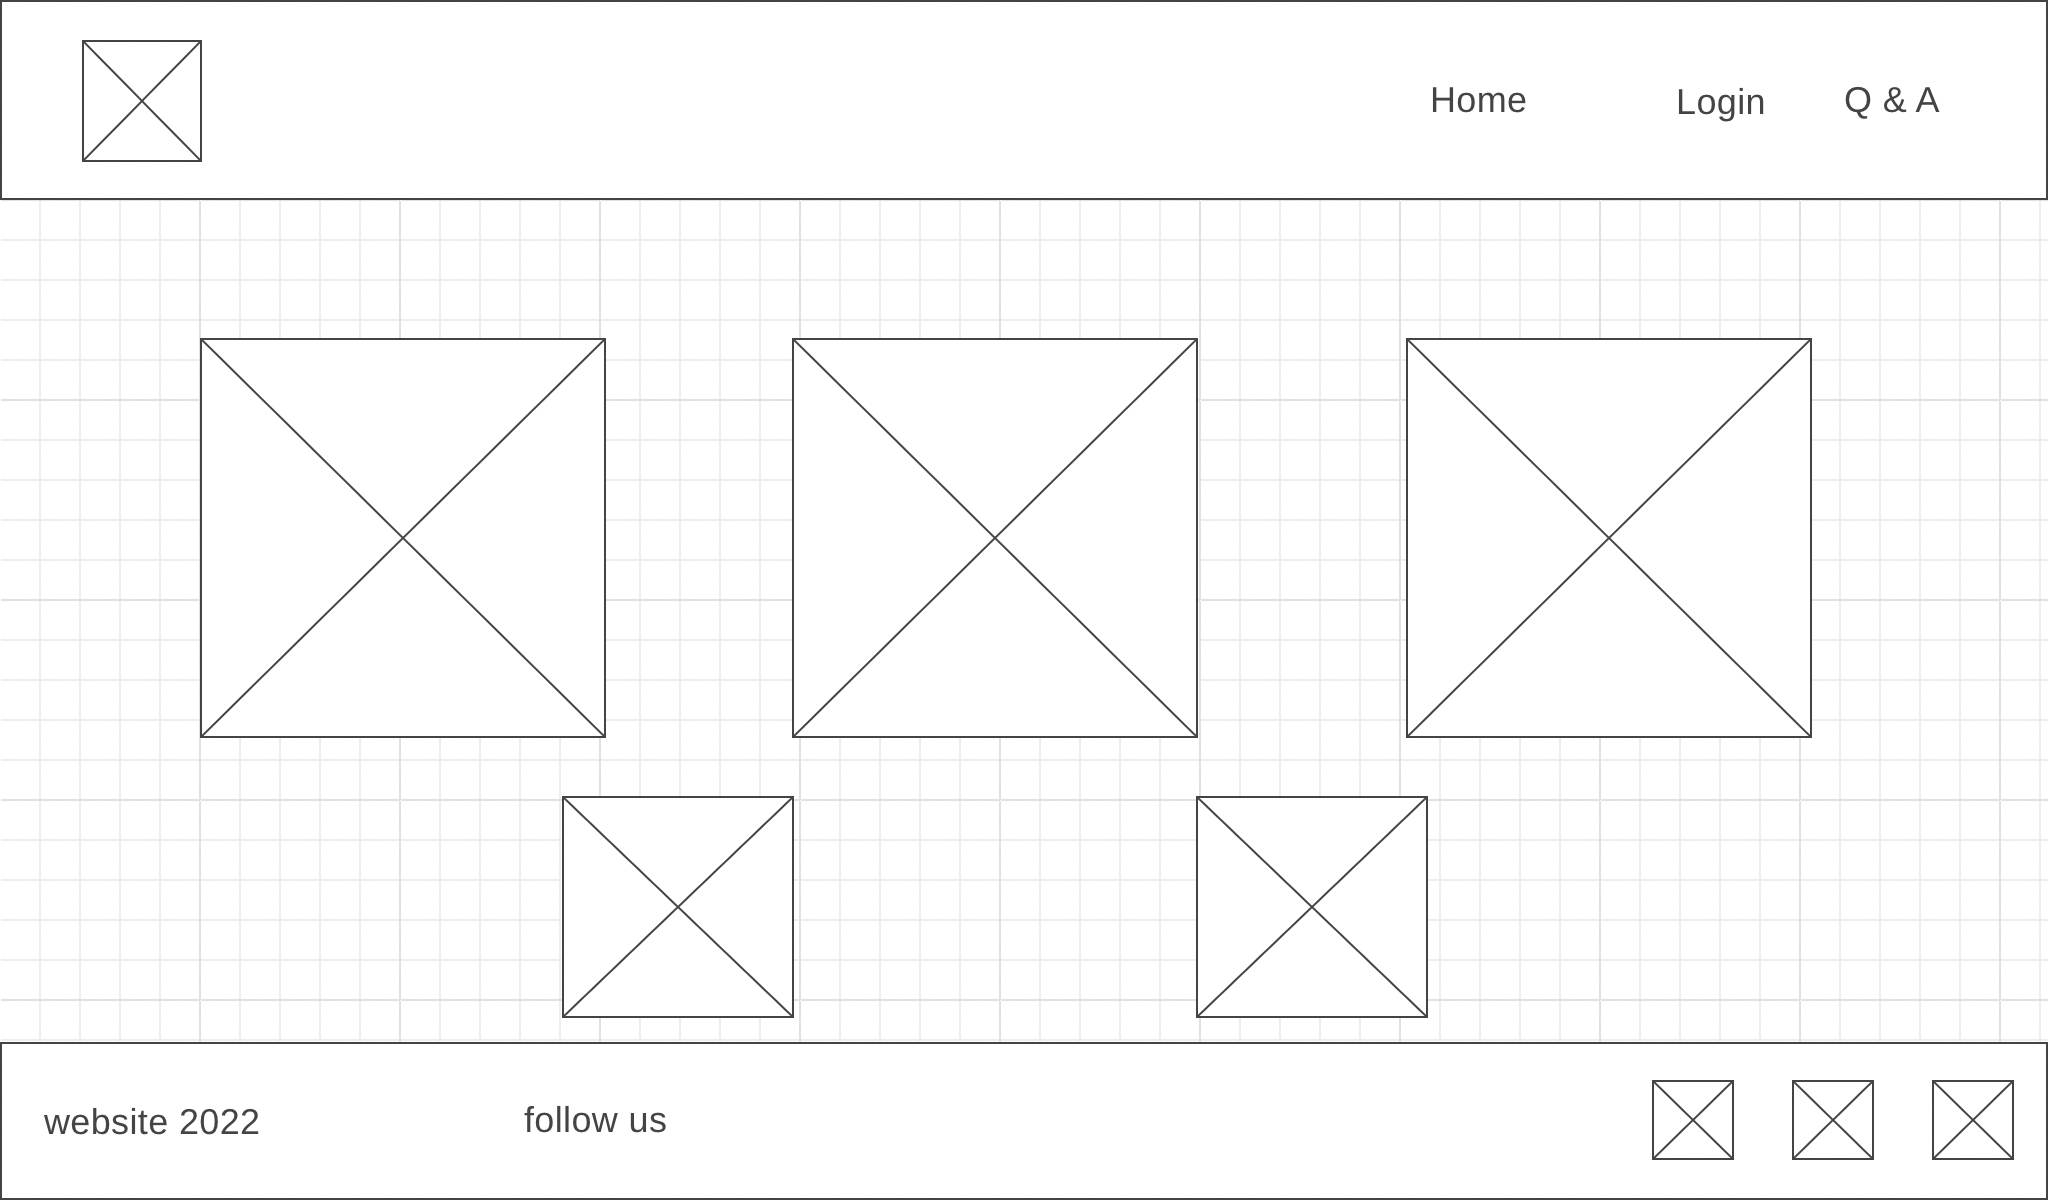
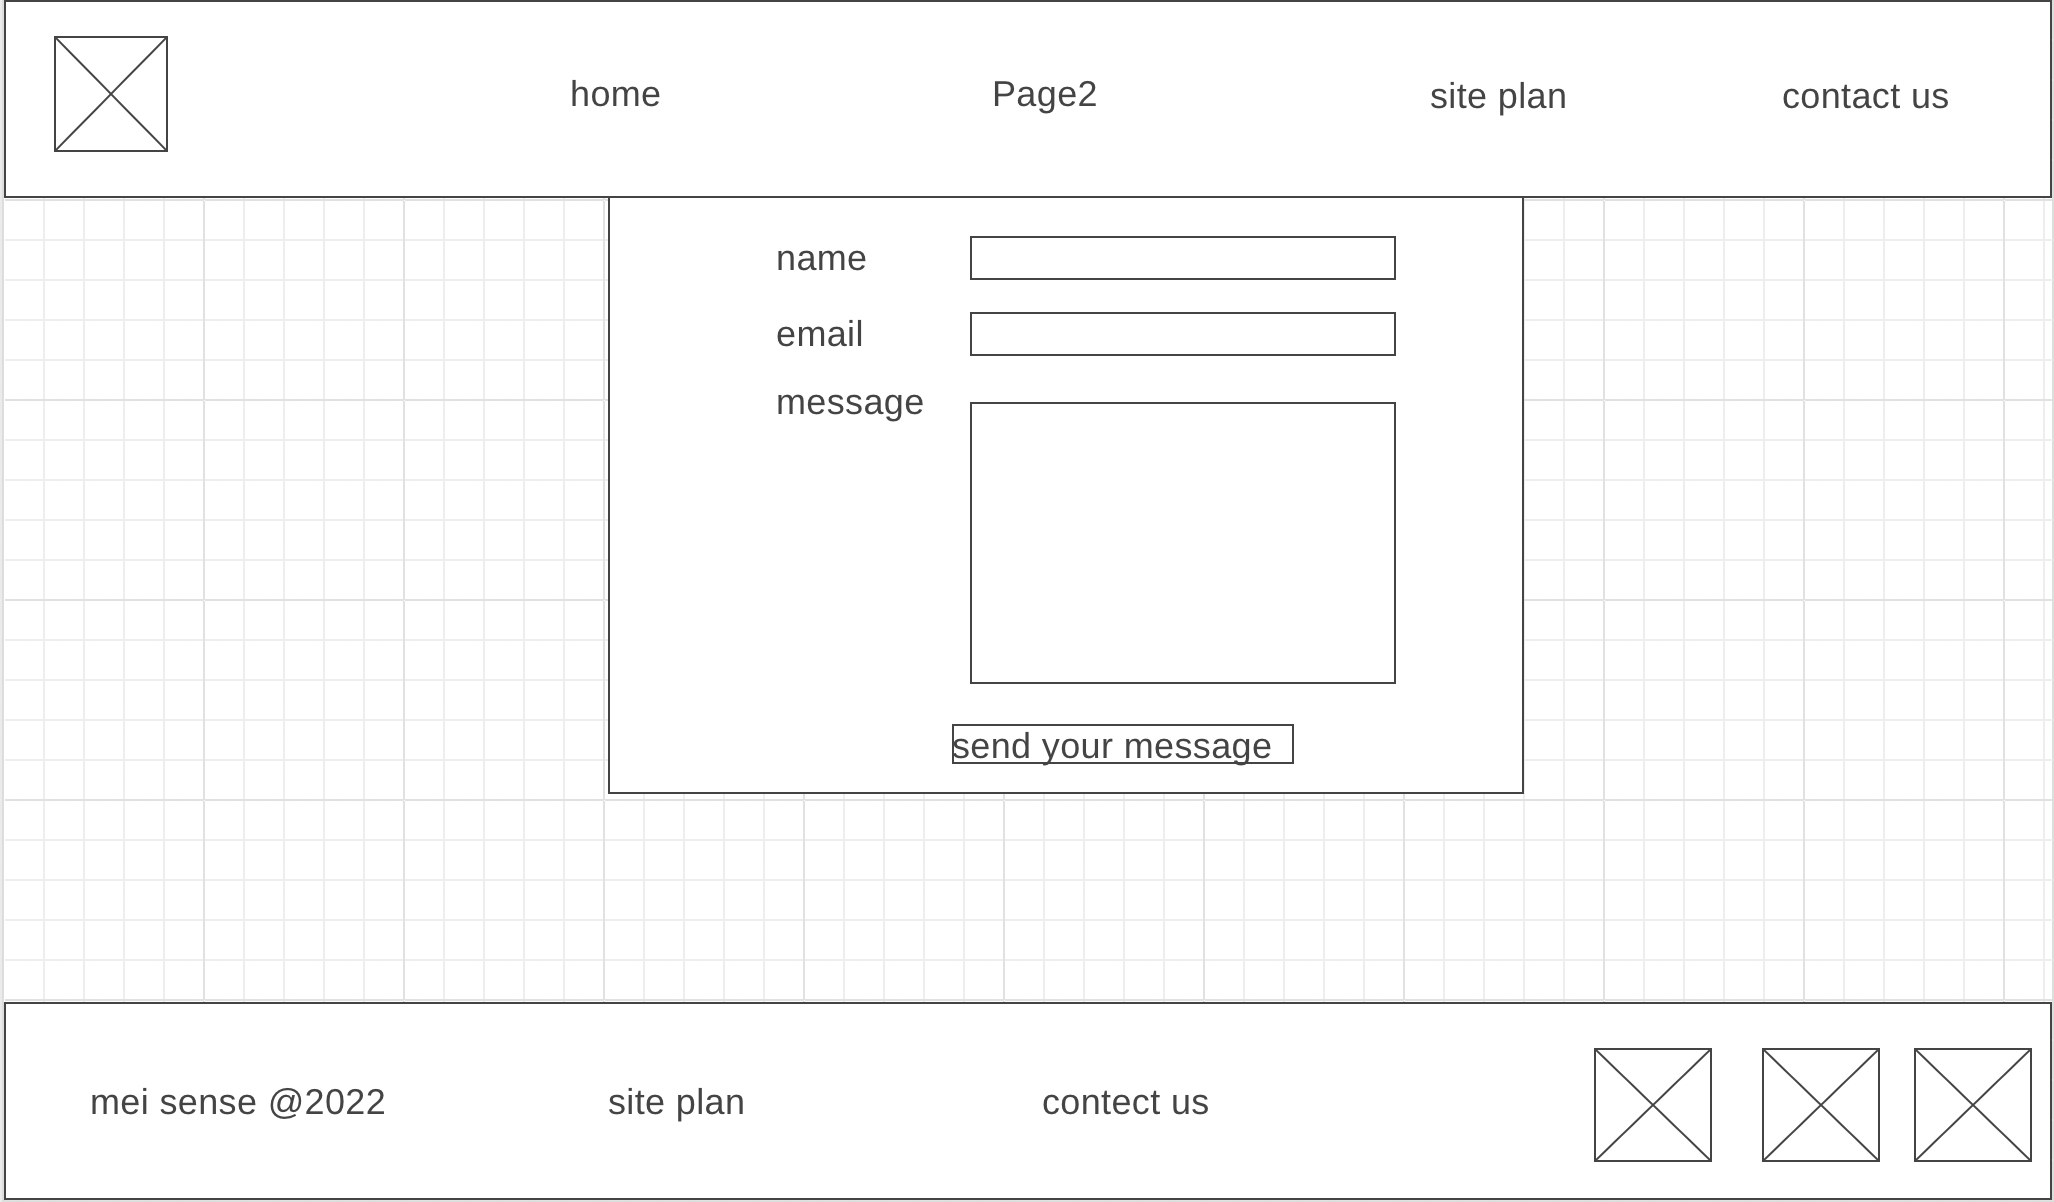
new

diff --git a/site_plan/contactus.html b/site_plan/contactus.html
@@ -1,0 +1,73 @@
+<!DOCTYPE html>
+<html lang="en">
+<head>
+    <meta charset="UTF-8">
+    <meta http-equiv="X-UA-Compatible" content="IE=edge">
+    <meta name="viewport" content="width=device-width, initial-scale=1.0">
+    <title>Personal site plan</title>
+    <link rel="stylesheet" href="styles/styles.css">
+
+</head>
+<body>
+    <div id="content">
+    <header>
+        <a id="logo_link" href="index.html" target="_blank">
+            <img class="logo" src="image/store_logo.jpg" alt="personal site Logo">
+        </a>
+        <nav>
+            <a href="index.html" target="_blank">Home</a>
+            <a href="page2.html" target="_blank">Page 2</a>
+            <a href="site-plan.html" target="_blank">Site Plan</a>
+            <a href="contactus.html" target="_blank">Contact Us</a>
+        </nav>
+    </header>
+    <form action="/my-handling-form-page" method="post">
+        <ul>
+          <li>
+            <label for="name">Name:</label>
+            <input type="text" id="name" name="user_name" />
+          </li>
+          <li>
+            <label for="mail">E-mail:</label>
+            <input type="email" id="mail" name="user_email" />
+          </li>
+          <li>
+            <label for="msg">Message:</label>
+            <textarea id="msg" name="user_message"></textarea>
+          </li>
+          <li class="button">
+            <button type="submit">Send your message</button>
+          </li>
+        </ul>
+
+      </form>
+      <div id="feedback"></div>
+      <script>
+        const feedbackElement = document.getElementById('feedback');
+        const formElement = document.forms[0];
+        formElement.addEventListener('submit', function(e) {
+            e.preventDefault();
+            feedbackElement.innerHTML = 'Hello '+ formElement.user_name.value +'! Thank you for your message. We will get back with you as soon as possible!';
+            feedbackElement.style.display = "block";
+            document.body.classList.toggle('moveDown');
+        });
+    </script>
+
+<footer>
+    <p>Mei Sense &copy; 2022 - Giselle Wang </p>
+        <p><a href="site_plan.html" target="_blank">Site Plan</a></p>
+        <p><a href="contactus.html">Contact Us</a></p>
+        <div class="social">
+            <a href="https://facebook.com" target="_blank">
+                <img src="image/facebook.png" alt="fb icon">
+            </a>
+            <a href="https://twitter.com" target="_blank">
+                <img src="image/twitter.png" alt="twitter icon">
+            </a>
+            <a href="https://instagram.com" target="_blank">
+                <img src="image/instagram.png" alt="instagram icon">
+            </a>
+
+</footer>
+</body>
+</html>

diff --git a/site_plan/styles/styles.css b/site_plan/styles/styles.css
@@ -1,0 +1,156 @@
+body {
+    background-color: rgb(255, 222, 222);
+    margin: 0
+}
+#content {
+    max-width: 1600px;
+    margin: 0 auto;
+}
+header {
+    background-color:rgb(255, 187, 179);
+    display: grid;
+    grid-template-columns: 150px auto;
+}
+nav {
+    display: flex;
+    justify-content: space-around;
+}
+.logo {
+    width: 90px;
+    margin: auto;
+}
+#logo_link {
+    padding-top: 5px;
+    justify-self: center;
+    align-self: center;
+}
+.logo-title {
+    margin-top: 10px;
+}
+nav a {
+    text-align: center;
+    color:rgb(255, 49, 49);
+    text-decoration: none;
+    padding: 35px;
+} 
+
+/*Home*/
+.img-1 {
+    width: 150px;
+    margin: 50px;
+}
+
+.img-2 {
+    width: 150px;
+    margin: 50px;
+}
+.img-3 {
+    width: 150px;
+    margin: 50px;
+}
+.img-4 {
+    width: 150px;
+    margin: 50px;
+}
+
+/*Page 2*/
+.img-5 {
+    width: 150px;
+    margin: 50px;
+}
+.img-6 {
+    width: 150px;
+    margin: 50px;
+}
+
+/*contact us*/
+form {
+    margin: 0 auto;
+    width: 400px;
+    padding: 1em;
+    border: 1px solid #ccc;
+    border-radius: 1em;
+  }
+  
+  ul {
+    list-style: none;
+    padding: 0;
+    margin: 0;
+  }
+  
+  form li + li {
+    margin-top: 1em;
+  }
+  
+  label {
+    display: inline-block;
+    width: 90px;
+    text-align: right;
+  }
+  
+  input,
+  textarea {
+    font: 1em sans-serif;
+    width: 300px;
+    box-sizing: border-box;
+    border: 1px solid #999;
+  }
+  
+  input:focus,
+  textarea:focus {
+    border-color: #000;
+  }
+  
+  textarea {
+    vertical-align: top;
+      height: 5em;
+  }
+  
+  .button {
+    padding-left: 90px;
+  }
+  
+  button {
+    margin-left: 0.5em;
+  }
+  #feedback {
+    background-color: antiquewhite;
+    position: absolute;
+    top: 0;
+    left: 0;
+    right: 0;
+    padding: .5em;
+    display: none;
+    text-align: center;      
+}
+.moveDown {
+    margin-top: 3em;
+}
+
+
+/*footer*/
+footer p {
+    font-size: 1.2em;
+}
+footer p a:hover {
+    text-decoration: underline;
+}
+footer {
+    background-color:rgba(253, 158, 123, 0.7);
+    color:#ffffff;
+    padding: 25px 50px;
+    margin-top: 200px;
+    display: flex;
+    justify-content: space-around;
+    align-items: center;
+}      
+footer a {
+    color:white;
+    text-decoration: none;
+}
+footer a:hover {
+    color:rgba(0, 0, 0)
+}
+footer .social img{
+    padding-top: 15px;
+}

diff --git a/site_plan/index.html b/site_plan/index.html
@@ -1,0 +1,49 @@
+<!DOCTYPE html>
+<html lang="en">
+<head>
+    <meta charset="UTF-8">
+    <meta http-equiv="X-UA-Compatible" content="IE=edge">
+    <meta name="viewport" content="width=device-width, initial-scale=1.0">
+    <title>Personal site plan</title>
+    <link rel="stylesheet" href="styles/styles.css">
+
+</head>
+<body>
+    <div id="content">
+    <header>
+        <a id="logo_link" href="index.html" target="_blank">
+            <img class="logo" src="image/store_logo.jpg" alt="personal site Logo">
+        </a>
+        <nav>
+            <a href="index.html" target="_blank">Home</a>
+            <a href="page2.html" target="_blank">Page 2</a>
+            <a href="site-plan.html" target="_blank">Site Plan</a>
+            <a href="contactus.html" target="_blank">Contact Us</a>
+        </nav>
+    </header>
+    <section id="home-img">
+        <img class="img-1" src="image/jewelry01.jpg" alt="jewelry-1">
+        <img class="img-2" src="image/jewelry02.jpg" alt="jewelry-1">
+        <img class="img-3" src="image/jewelry03.jpg" alt="jewelry-1">
+        <img class="img-4" src="image/jewelry04.jpg" alt="jewelry-1">
+    </section>
+
+
+    <footer>
+        <p>Mei Sense &copy; 2022 - Giselle Wang </p>
+            <p><a href="site_plan.html" target="_blank">Site Plan</a></p>
+            <p><a href="contactus.html">Contact Us</a></p>
+            <div class="social">
+                <a href="https://facebook.com" target="_blank">
+                    <img src="image/facebook.png" alt="fb icon">
+                </a>
+                <a href="https://twitter.com" target="_blank">
+                    <img src="image/twitter.png" alt="twitter icon">
+                </a>
+                <a href="https://instagram.com" target="_blank">
+                    <img src="image/instagram.png" alt="instagram icon">
+                </a>
+
+    </footer>
+</body>
+</html>

diff --git a/site_plan/page2.html b/site_plan/page2.html
@@ -1,0 +1,48 @@
+<!DOCTYPE html>
+<html lang="en">
+<head>
+    <meta charset="UTF-8">
+    <meta http-equiv="X-UA-Compatible" content="IE=edge">
+    <meta name="viewport" content="width=device-width, initial-scale=1.0">
+    <title>Page 2 </title>
+    <link rel="stylesheet" href="styles/styles.css">
+
+
+</head>
+<body>
+    <div id="content">
+        <header>
+            <a id="logo_link" href="index.html" target="_blank">
+                <img class="logo" src="image/store_logo.jpg" alt="personal site Logo">
+            </a>
+            <nav>
+                <a href="index.html" target="_blank">Home</a>
+                <a href="page2.html" target="_blank">Page 2</a>
+                <a href="site-plan.html" target="_blank">Site Plan</a>
+                <a href="contactus.html" target="_blank">Contact Us</a>
+            </nav>
+        </header>
+
+    <div id="page2_img">
+        <img class="img-5" src="image/jewelry05.jpg" alt="jewelry-1">
+        <img class="img-6" src="image/jewelry06.jpg" alt="jewelry-1">
+
+    </div>
+    <footer>
+        <p>Mei Sense &copy; 2022 - Giselle Wang </p>
+            <p><a href="site_plan.html" target="_blank">Site Plan</a></p>
+            <p><a href="contactus.html">Contact Us</a></p>
+            <div class="social">
+                <a href="https://facebook.com" target="_blank">
+                    <img src="image/facebook.png" alt="fb icon">
+                </a>
+                <a href="https://twitter.com" target="_blank">
+                    <img src="image/twitter.png" alt="twitter icon">
+                </a>
+                <a href="https://instagram.com" target="_blank">
+                    <img src="image/instagram.png" alt="instagram icon">
+                </a>
+
+    </footer>
+</body>
+</html>

diff --git a/wwr/rivers.html b/wwr/rivers.html
@@ -16,7 +16,7 @@
         </a>
         <nav>
             <a href="index.html" target="_blank">Home</a>
-            <a href="#" target="_blank">Page 2</a>
+            <a href="rivers.html" target="_blank">Page 2</a>
             <a href="site-plan-rafting.html" target="_blank">Site Plan</a>
             <a href="contactus.html" target="_blank">Contact Us</a>
         </nav>
